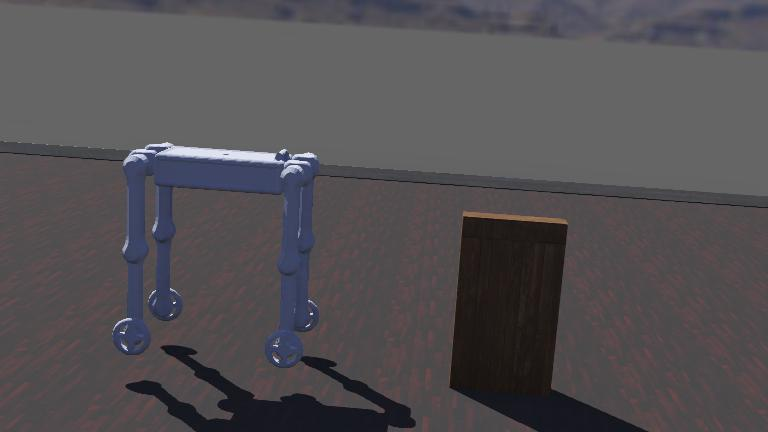
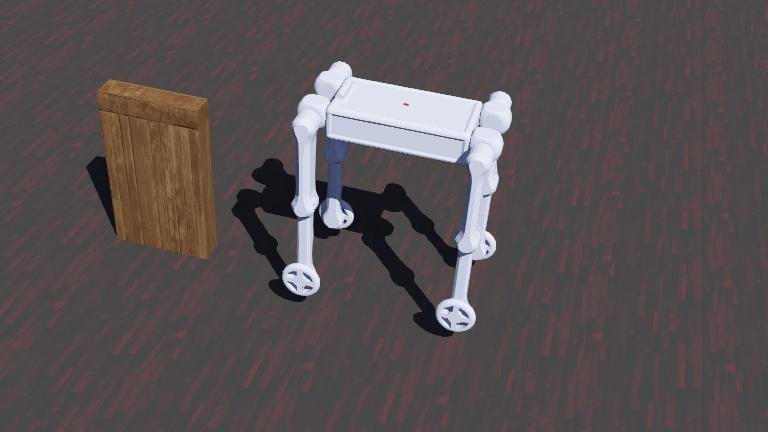
使用伪逆还是爆炸；修改了模型质量

diff --git a/controllers/DogController/DogController.cpp b/controllers/DogController/DogController.cpp
@@ -33,12 +33,12 @@ int main(int argc, char **argv)
                 Dog.Legs[(int)DirEnumdef::LB].JointPosition[(int)JointEnumdef::LegDown], Dog.Legs[(int)DirEnumdef::LB].JointPosition[(int)JointEnumdef::LegUp], Dog.Legs[(int)DirEnumdef::LB].JointPosition[(int)JointEnumdef::Shoulder],
                 -Dog.Legs[(int)DirEnumdef::RB].JointPosition[(int)JointEnumdef::LegDown], -Dog.Legs[(int)DirEnumdef::RB].JointPosition[(int)JointEnumdef::LegUp], Dog.Legs[(int)DirEnumdef::RB].JointPosition[(int)JointEnumdef::Shoulder]);
     TorqueCalculate(H, Fs, SDParam, Dog.Legs[(int)DirEnumdef::LF].JointTargetTorque, Dog.Legs[(int)DirEnumdef::RF].JointTargetTorque, Dog.Legs[(int)DirEnumdef::LB].JointTargetTorque, Dog.Legs[(int)DirEnumdef::RB].JointTargetTorque);
-    // for(auto l:Dog.Legs)
-    // {
-    //   l.SetTorque(l.JointTargetTorque[(int)JointEnumdef::LegUp], l.JointTargetTorque[(int)JointEnumdef::LegDown]);
-    // }
+    for(auto l:Dog.Legs)
+    {
+      // l.SetTorque(l.JointTargetTorque[(int)JointEnumdef::LegUp], l.JointTargetTorque[(int)JointEnumdef::LegDown]);
+    }
     // std::cout << Dog.Legs[(int)DirEnumdef::LF].JointTargetTorque[(int)JointEnumdef::LegUp] << " & " << Dog.Legs[(int)DirEnumdef::LF].JointTargetTorque[(int)JointEnumdef::LegDown] << std::endl;
-    // Dog.Legs[(int)DirEnumdef::LF].SetTorque(Dog.Legs[(int)DirEnumdef::LF].JointTargetTorque[(int)JointEnumdef::LegUp], /* Dog.Legs[(int)DirEnumdef::LF].JointTargetTorque[(int)JointEnumdef::LegDown] */0);
+    // Dog.Legs[(int)DirEnumdef::LF].SetTorque(/* 0.1*Dog.Legs[(int)DirEnumdef::LF].JointTargetTorque[(int)JointEnumdef::LegUp] */0, 0.001*Dog.Legs[(int)DirEnumdef::LF].JointTargetTorque[(int)JointEnumdef::LegDown]);
   };
 
   delete robot;

diff --git a/controllers/DogController/algorithm/vmc.hpp b/controllers/DogController/algorithm/vmc.hpp
@@ -132,9 +132,9 @@ void MatrixHInit(Eigen::MatrixXd &_H, const double alpha, const double beta, con
           0,-s*sin(O3rb+O4rb),0,0,1;
 
   T_ = pseudoInverse(T);
-  std::cout << "pinv T_ " << T_ << std::endl;
+  // std::cout << "pinv T_ " << T_ << std::endl;
   K = T_.block<20, 5>(0, 0);
-  std::cout << "K Mat " << K << std::endl;
+  // std::cout << "K Mat " << K << std::endl;
 
   Jtotal.block<5, 5>(0, 0) = Jlf;
   Jtotal.block<5, 5>(5, 5) = Jrf;
@@ -198,16 +198,16 @@ void TorqueCalculate(Eigen::MatrixXd &_H, Eigen::MatrixXd &_F, const Spring_Damp
   torMat = _H * _F;
   
   lfTorque[(int)JointEnumdef::LegDown] = -torMat(1, 0);
-  lfTorque[(int)JointEnumdef::LegUp] = -torMat(2, 0);
+  lfTorque[(int)JointEnumdef::LegUp] = torMat(2, 0);
   lfTorque[(int)JointEnumdef::Shoulder] = torMat(4, 0);
-  rfTorque[(int)JointEnumdef::LegDown] = torMat(1+5, 0);
+  rfTorque[(int)JointEnumdef::LegDown] = -torMat(1+5, 0);
   rfTorque[(int)JointEnumdef::LegUp] = torMat(2+5, 0);
   rfTorque[(int)JointEnumdef::Shoulder] = torMat(4+5, 0);
-  lbTorque[(int)JointEnumdef::LegDown] = -torMat(1+10, 0);
+  lbTorque[(int)JointEnumdef::LegDown] = --torMat(1+10, 0);
   lbTorque[(int)JointEnumdef::LegUp] = -torMat(2+10, 0);
   lbTorque[(int)JointEnumdef::Shoulder] = -torMat(4+10, 0);
-  rbTorque[(int)JointEnumdef::LegDown] = torMat(1+15, 0);
-  rbTorque[(int)JointEnumdef::LegUp] = torMat(2+15, 0);
+  rbTorque[(int)JointEnumdef::LegDown] = --torMat(1+15, 0);
+  rbTorque[(int)JointEnumdef::LegUp] = -torMat(2+15, 0);
   rbTorque[(int)JointEnumdef::Shoulder] = -torMat(4+15, 0);
 
   std::cout << "tormat: " << std::endl << torMat << std::endl;
